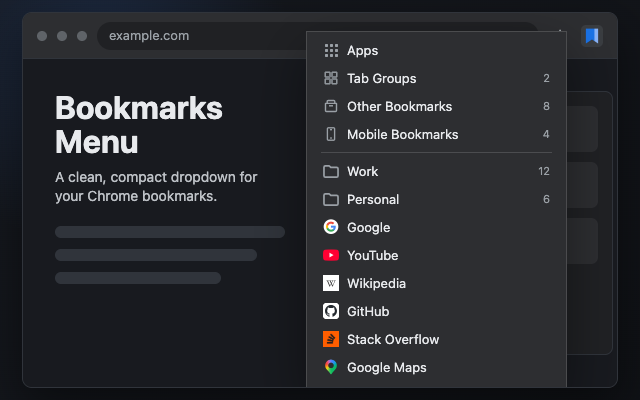
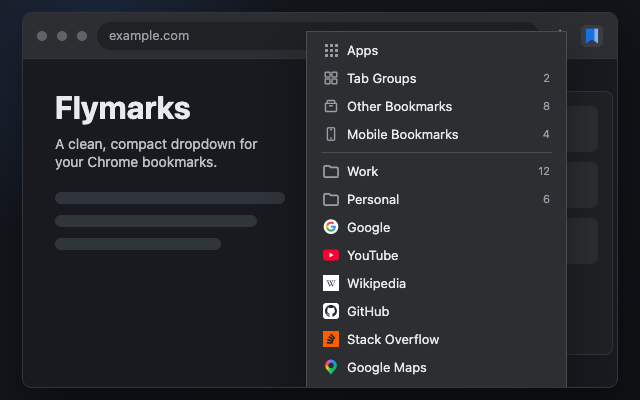
Rename extension to Flymarks

Changed region(s): [[0.0625, 0.24, 0.4688, 0.51], [0.0625, 0.54, 0.4688, 0.72]]

diff --git a/popup.html b/popup.html
@@ -3,11 +3,11 @@
 <head>
   <meta charset="utf-8">
   <meta name="viewport" content="width=device-width, initial-scale=1">
-  <title>Bookmarks Menu</title>
+  <title>Flymarks</title>
   <link rel="stylesheet" href="popup.css">
 </head>
 <body>
-  <main id="app" aria-label="Bookmarks Menu">
+  <main id="app" aria-label="Flymarks">
     <section id="bookmark-list" class="menu" aria-label="Bookmarks list"></section>
   </main>
 

diff --git a/README.md b/README.md
@@ -1,10 +1,10 @@
-# Bookmarks Menu
+# Flymarks
 
-Bookmarks Menu is a simple Chrome extension that shows bookmarks as a clean and compact dropdown menu, with folder navigation, context actions, and bookmark operations.
+Flymarks is a simple Chrome extension that shows bookmarks as a clean and compact dropdown menu, with folder navigation, context actions, and bookmark operations.
 
 It is open source so you can verify that it does not send your bookmark data anywhere.
 
-![Bookmarks Menu popup example](example.png)
+![Flymarks popup example](example.png)
 
 ## Quick Start
 
@@ -14,9 +14,9 @@ Install the development extension into your main Google Chrome profile:
 2. Enable Developer mode.
 3. Click Load unpacked.
 4. Select this repository folder.
-5. Open the toolbar action named `Bookmarks Menu`.
+5. Open the toolbar action named `Flymarks`.
 
-After code changes, return to `chrome://extensions/` and click Reload on the `Bookmarks Menu` card. If the card shows an Errors button, inspect whether the errors are current or stale, clear stale errors, and reload the extension to verify the button stays gone.
+After code changes, return to `chrome://extensions/` and click Reload on the `Flymarks` card. If the card shows an Errors button, inspect whether the errors are current or stale, clear stale errors, and reload the extension to verify the button stays gone.
 
 ## Development
 
@@ -56,7 +56,7 @@ Create a Chrome Web Store upload package:
 npm run package
 ```
 
-This writes `dist/bookmarks-menu.zip` with `manifest.json` at the archive root.
+This writes `dist/flymarks.zip` with `manifest.json` at the archive root.
 
 ## Browser Testing Architecture Notes
 

diff --git a/PRIVACY.md b/PRIVACY.md
@@ -1,6 +1,6 @@
-# Bookmarks Menu Privacy Policy
+# Flymarks Privacy Policy
 
-Bookmarks Menu does not collect, sell, share, or transmit personal data.
+Flymarks does not collect, sell, share, or transmit personal data.
 
 The extension uses Chrome extension permissions only to provide its bookmark menu features:
 
@@ -9,6 +9,6 @@ The extension uses Chrome extension permissions only to provide its bookmark men
 - Storage is used only to save extension preferences.
 - Favicons are used only to display bookmark icons.
 
-Bookmarks Menu does not send bookmark data, tab data, browsing data, or extension preferences to the developer or any third party.
+Flymarks does not send bookmark data, tab data, browsing data, or extension preferences to the developer or any third party.
 
 Last updated: April 29, 2026
